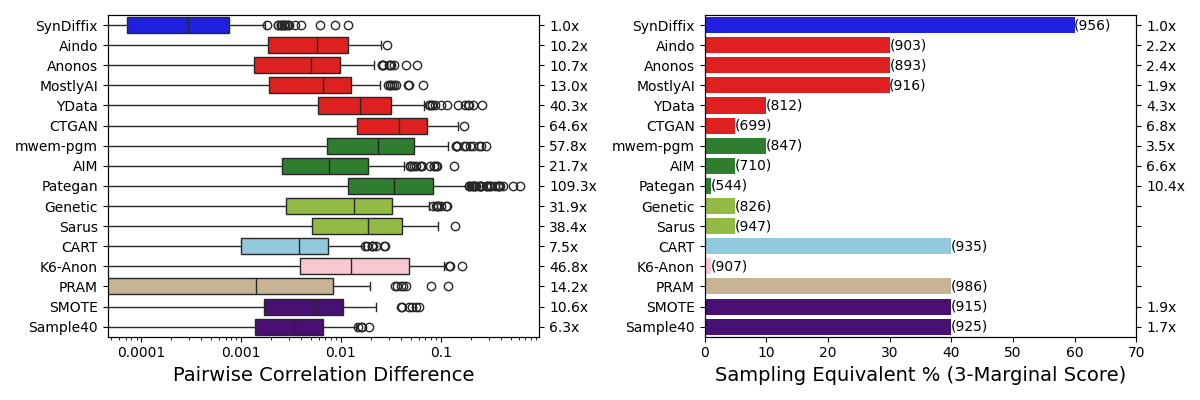
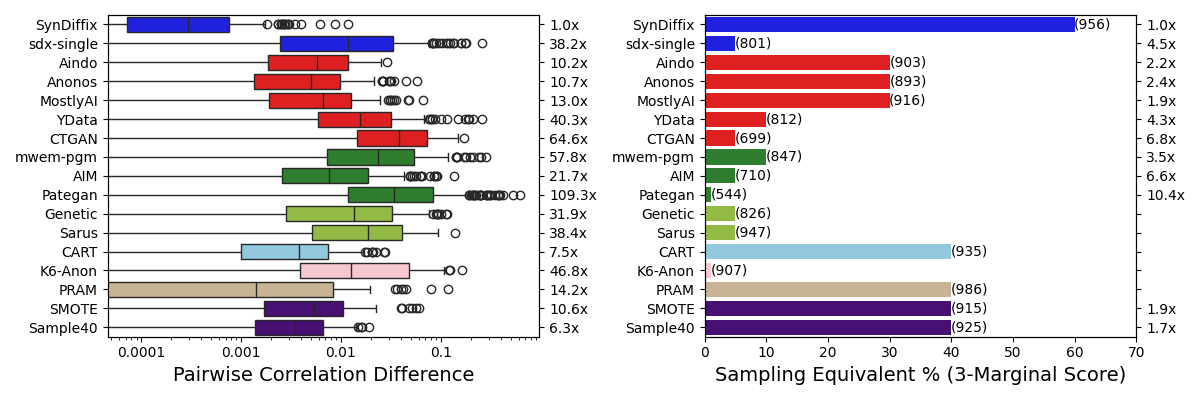
added code for sdx_single

diff --git a/outputs/pcaGrid.tex b/outputs/pcaGrid.tex
@@ -16,44 +16,47 @@
        \includegraphics[width=\linewidth]{z_Aindo.syn.png} &
        \includegraphics[width=\linewidth]{z_Anonos.orig.png} &
        \includegraphics[width=\linewidth]{z_Anonos.syn.png} &
-       \includegraphics[width=\linewidth]{z_SynDiffix.orig.png} &
-       \includegraphics[width=\linewidth]{z_SynDiffix.syn.png} \\ 
+       \includegraphics[width=\linewidth]{z_sdx-single.orig.png} &
+       \includegraphics[width=\linewidth]{z_sdx-single.syn.png} \\ 
 \multicolumn{2}{c|}{Aindo, 0.0015} &
 \multicolumn{2}{c|}{Anonos, 0.0015} &
-\multicolumn{2}{c}{SynDiffix, 0.0020} \\ 
+\multicolumn{2}{c}{sdx-single, 0.0020} \\ 
  \hline 
+       \includegraphics[width=\linewidth]{z_SynDiffix.orig.png} &
+       \includegraphics[width=\linewidth]{z_SynDiffix.syn.png} &
        \includegraphics[width=\linewidth]{z_CART.orig.png} &
        \includegraphics[width=\linewidth]{z_CART.syn.png} &
        \includegraphics[width=\linewidth]{z_YData.orig.png} &
-       \includegraphics[width=\linewidth]{z_YData.syn.png} &
-       \includegraphics[width=\linewidth]{z_CTGAN.orig.png} &
-       \includegraphics[width=\linewidth]{z_CTGAN.syn.png} \\ 
+       \includegraphics[width=\linewidth]{z_YData.syn.png} \\ 
+\multicolumn{2}{c|}{SynDiffix, 0.0020} &
 \multicolumn{2}{c|}{CART, 0.0024} &
-\multicolumn{2}{c|}{YData, 0.0025} &
-\multicolumn{2}{c}{CTGAN, 0.0025} \\ 
+\multicolumn{2}{c}{YData, 0.0025} \\ 
  \hline 
+       \includegraphics[width=\linewidth]{z_CTGAN.orig.png} &
+       \includegraphics[width=\linewidth]{z_CTGAN.syn.png} &
        \includegraphics[width=\linewidth]{z_K6-Anon.orig.png} &
        \includegraphics[width=\linewidth]{z_K6-Anon.syn.png} &
        \includegraphics[width=\linewidth]{z_AIM.orig.png} &
-       \includegraphics[width=\linewidth]{z_AIM.syn.png} &
-       \includegraphics[width=\linewidth]{z_Genetic.orig.png} &
-       \includegraphics[width=\linewidth]{z_Genetic.syn.png} \\ 
+       \includegraphics[width=\linewidth]{z_AIM.syn.png} \\ 
+\multicolumn{2}{c|}{CTGAN, 0.0025} &
 \multicolumn{2}{c|}{K6-Anon, 0.0026} &
-\multicolumn{2}{c|}{AIM, 0.0035} &
-\multicolumn{2}{c}{Genetic, 0.0035} \\ 
+\multicolumn{2}{c}{AIM, 0.0035} \\ 
  \hline 
+       \includegraphics[width=\linewidth]{z_Genetic.orig.png} &
+       \includegraphics[width=\linewidth]{z_Genetic.syn.png} &
        \includegraphics[width=\linewidth]{z_Sarus.orig.png} &
        \includegraphics[width=\linewidth]{z_Sarus.syn.png} &
        \includegraphics[width=\linewidth]{z_mwem-pgm.orig.png} &
-       \includegraphics[width=\linewidth]{z_mwem-pgm.syn.png} &
-       \includegraphics[width=\linewidth]{z_Pategan.orig.png} &
-       \includegraphics[width=\linewidth]{z_Pategan.syn.png} \\ 
+       \includegraphics[width=\linewidth]{z_mwem-pgm.syn.png} \\ 
+\multicolumn{2}{c|}{Genetic, 0.0035} &
 \multicolumn{2}{c|}{Sarus, 0.0037} &
-\multicolumn{2}{c|}{mwem-pgm, 0.0040} &
-\multicolumn{2}{c}{Pategan, 0.0046} \\ 
+\multicolumn{2}{c}{mwem-pgm, 0.0040} \\ 
  \hline 
+       \includegraphics[width=\linewidth]{z_Pategan.orig.png} &
+       \includegraphics[width=\linewidth]{z_Pategan.syn.png} &
        \includegraphics[width=\linewidth]{z_PRAM.orig.png} &
        \includegraphics[width=\linewidth]{z_PRAM.syn.png} \\ 
+\multicolumn{2}{c|}{Pategan, 0.0046} &
 \multicolumn{2}{c}{PRAM, 0.0054} \\ 
     \end{tabular}
 \caption{Original (left) and synthetic (right) scatterplot and error score for one principal component, ordered by most-to-least accurate.}

diff --git a/outputs/infoTable.tex b/outputs/infoTable.tex
@@ -7,6 +7,7 @@
           & Algorithm & Tech & Org & Cols & \thinspace$\epsilon$\qquad\qquad & Cite & Repo \\
         \midrule
         \cellcolor{blue} & \href{https://htmlpreview.github.io/?https://github.com/yoid2000/sdnist-summary/blob/main/results/syndiffix_all/report.html}{SynDiffix} & Anonymous decision trees & \href{https://www.open-diffix.org/}{Open Diffix} & 24 &  & \cite{francis2023syndiffix} & \href{https://github.com/diffix/syndiffix}{link} \\
+        \cellcolor{blue} & \href{https://htmlpreview.github.io/?https://github.com/yoid2000/sdnist-summary/blob/main/results/sdx_single/report.html}{sdx-single} & Anonymous decision trees & \href{https://www.open-diffix.org/}{Open Diffix} & 24 &  & \cite{francis2023syndiffix} & \href{https://github.com/diffix/syndiffix}{link} \\
         \cellcolor{red} & \href{https://htmlpreview.github.io/?https://github.com/yoid2000/sdnist-summary/blob/main/results/aindo_synth/report.html}{Aindo} & Generative model & \href{https://www.aindo.com/}{Aindo} & 24 &  &  &  \\
         \cellcolor{red} & \href{https://htmlpreview.github.io/?https://github.com/yoid2000/sdnist-summary/blob/main/results/anonos_sdk/report.html}{Anonos} & Generative model & \href{https://www.anonos.com/}{Anonos} & 24 &  &  &  \\
         \cellcolor{red} & \href{https://htmlpreview.github.io/?https://github.com/yoid2000/sdnist-summary/blob/main/results/mostlyai_sd_platform/report.html}{MostlyAI} & Generative model & \href{https://mostly.ai/}{MostlyAI} & 24 &  &  &  \\

diff --git a/gather.py b/gather.py
@@ -127,6 +127,13 @@ methodInfo = {
             "org":"Open Diffix",
             "tech":"Anonymous decision trees",
             },
+    "SynDiffix: Single-table": {"name":"sdx-single",
+            "repo":"https://github.com/diffix/syndiffix",
+            "cite":"francis2023syndiffix",
+            "web":"https://www.open-diffix.org/",
+            "org":"Open Diffix",
+            "tech":"Anonymous decision trees",
+            },
     "YData Fabric Synthesizers": {"name":"YData",
             "repo":"https://github.com/ydataai/ydata-synthetic",
             "cite":None,
@@ -138,6 +145,7 @@ methodInfo = {
 
 keyOrder = [
     "SynDiffix",
+    "sdx-single",
     "Aindo",
     "Anonos",
     "MostlyAI",
@@ -172,6 +180,7 @@ Dark brown: #B15928
 
 pltColors = {
     "SynDiffix": "blue",
+    "sdx-single": "blue",
     "Aindo": "red",
     "Anonos": "red",
     "MostlyAI": "red",
@@ -191,6 +200,7 @@ pltColors = {
 
 dashes = {
     "SynDiffix": (0,()),
+    "sdx-single": (0,(3,3)),
     "Aindo": (0,()),
     "Anonos": (0,(3,3)),
     "MostlyAI": (0,(1,1)),
@@ -210,6 +220,7 @@ dashes = {
 
 latexColors = {
     "SynDiffix": "blue",
+    "sdx-single": "blue",
     "Aindo": "red",
     "Anonos": "red",
     "MostlyAI": "red",
@@ -230,6 +241,7 @@ latexColors = {
 
 markers = {
     "SynDiffix": "o",
+    "sdx-single": "x",
     "Aindo": ",",
     "Anonos": "v",
     "MostlyAI": "^",

diff --git a/outputs/accTable.tex b/outputs/accTable.tex
@@ -9,6 +9,7 @@
  & & N & mean & imp & N & mean & imp & score & imp & samp & imp \\
 \midrule
         \cellcolor{blue} & \href{https://htmlpreview.github.io/?https://github.com/yoid2000/sdnist-summary/blob/main/results/syndiffix_all/report.html}{SynDiffix} & 499 & 1.0 & 1.0x & 190 & 0.0007 & 1.0x & 956 & 1.0x & 60\% & 1.0x \\
+        \cellcolor{blue} & \href{https://htmlpreview.github.io/?https://github.com/yoid2000/sdnist-summary/blob/main/results/sdx_single/report.html}{sdx-single} & 510 & 22.0 & 21.6x & 190 & 0.0268 & 38.2x & 801 & 4.5x & 5\% & 2.4x \\
         \cellcolor{red} & \href{https://htmlpreview.github.io/?https://github.com/yoid2000/sdnist-summary/blob/main/results/aindo_synth/report.html}{Aindo} & 499 & 5.4 & 5.3x & 190 & 0.0071 & 10.2x & 903 & 2.2x & 30\% & 1.8x \\
         \cellcolor{red} & \href{https://htmlpreview.github.io/?https://github.com/yoid2000/sdnist-summary/blob/main/results/anonos_sdk/report.html}{Anonos} & 499 & 4.4 & 4.3x & 190 & 0.0075 & 10.7x & 893 & 2.4x & 30\% & 1.8x \\
         \cellcolor{red} & \href{https://htmlpreview.github.io/?https://github.com/yoid2000/sdnist-summary/blob/main/results/mostlyai_sd_platform/report.html}{MostlyAI} & 216 & 6.0 & 5.9x & 190 & 0.0091 & 13.0x & 916 & 1.9x & 30\% & 1.8x \\

diff --git a/outputs/privTable.tex b/outputs/privTable.tex
@@ -9,6 +9,7 @@
  & & count & \quad \% & avg PI & max PI & cov & count \\
 \midrule
         \cellcolor{blue} & \href{https://htmlpreview.github.io/?https://github.com/yoid2000/sdnist-summary/blob/main/results/syndiffix_all/report.html}{SynDiffix} & 4 & \quad0.01 & -0.31 & 0.11 & 0.032 & 873.5 \\
+        \cellcolor{blue} & \href{https://htmlpreview.github.io/?https://github.com/yoid2000/sdnist-summary/blob/main/results/sdx_single/report.html}{sdx-single} & 4 & \quad0.01 & -0.34 & 0.03 & 0.042 & 1131.0 \\
         \cellcolor{red} & \href{https://htmlpreview.github.io/?https://github.com/yoid2000/sdnist-summary/blob/main/results/aindo_synth/report.html}{Aindo} & 10 & \quad0.04 & -0.34 & 0.21 & 0.060 & 1625.0 \\
         \cellcolor{red} & \href{https://htmlpreview.github.io/?https://github.com/yoid2000/sdnist-summary/blob/main/results/anonos_sdk/report.html}{Anonos} & 5 & \quad0.02 & -0.27 & 0.44 & 0.060 & 1635.0 \\
         \cellcolor{red} & \href{https://htmlpreview.github.io/?https://github.com/yoid2000/sdnist-summary/blob/main/results/mostlyai_sd_platform/report.html}{MostlyAI} & 5 & \quad0.02 & -0.30 & 0.40 & 0.059 & 1606.0 \\

diff --git a/outputs/pmseTable.tex b/outputs/pmseTable.tex
@@ -9,6 +9,7 @@
  & & pmse & imp & err & imp & count & imp \\
 \midrule
         \cellcolor{blue} & \href{https://htmlpreview.github.io/?https://github.com/yoid2000/sdnist-summary/blob/main/results/syndiffix_all/report.html}{SynDiffix} & 0.0010 & 1.0x & 0.002032 & 1.0x & 12 & 1.0x \\
+        \cellcolor{blue} & \href{https://htmlpreview.github.io/?https://github.com/yoid2000/sdnist-summary/blob/main/results/sdx_single/report.html}{sdx-single} & 0.0859 & 88.5x & 0.002030 & -1.0x & 500 & 41.7x \\
         \cellcolor{red} & \href{https://htmlpreview.github.io/?https://github.com/yoid2000/sdnist-summary/blob/main/results/aindo_synth/report.html}{Aindo} & 0.0025 & 2.6x & 0.001458 & -1.4x & 21 & 1.8x \\
         \cellcolor{red} & \href{https://htmlpreview.github.io/?https://github.com/yoid2000/sdnist-summary/blob/main/results/anonos_sdk/report.html}{Anonos} & 0.0054 & 5.6x & 0.001465 & -1.4x & 0 & -inf \\
         \cellcolor{red} & \href{https://htmlpreview.github.io/?https://github.com/yoid2000/sdnist-summary/blob/main/results/mostlyai_sd_platform/report.html}{MostlyAI} & 0.0040 & 4.1x & 0.001023 & -2.0x & 98 & 8.2x \\
